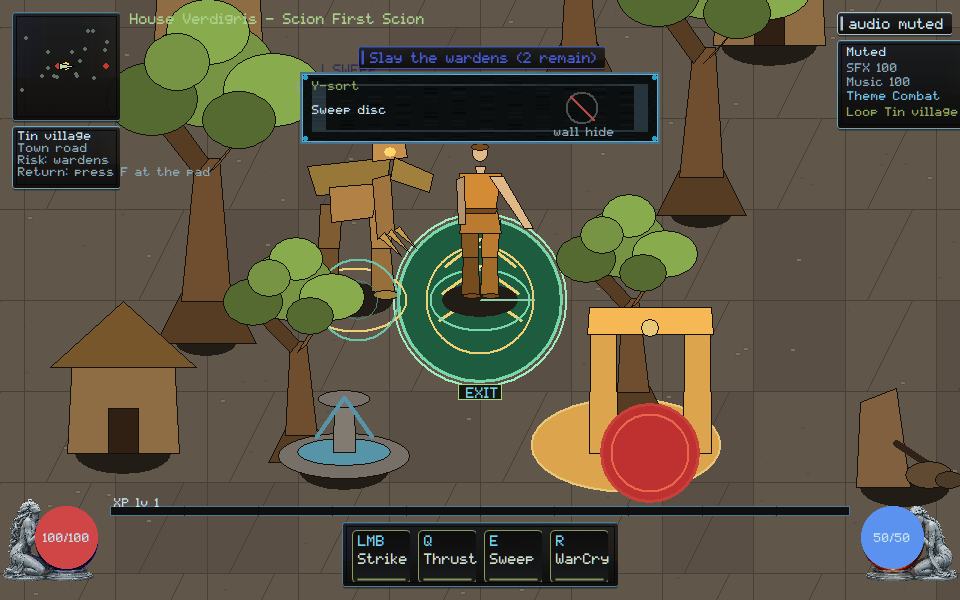
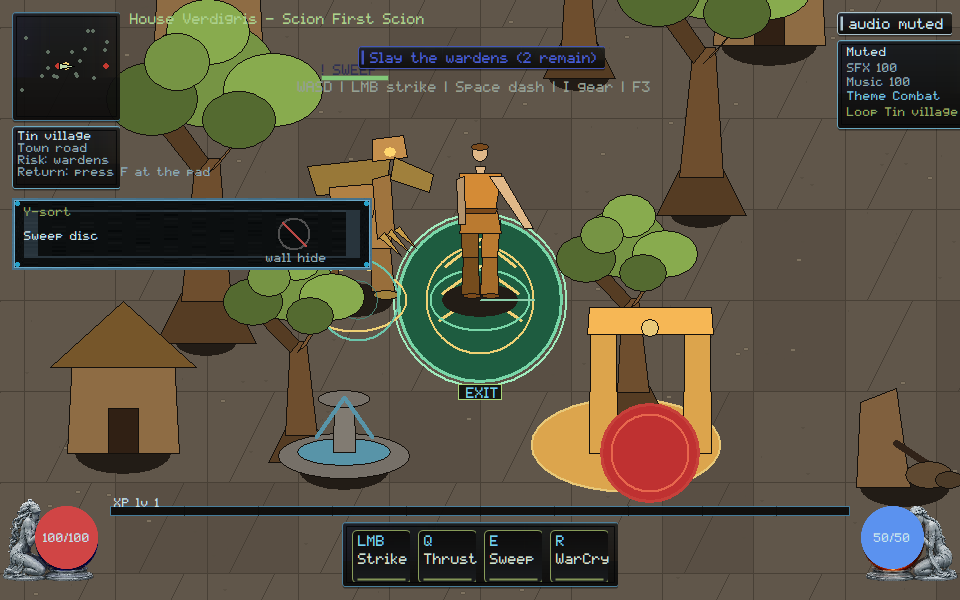
native: park Y-sort off WASD and Tin village so covering combat HUD cannot certify

Changed region(s): [[0.0, 0.33, 0.4062, 0.45], [0.3125, 0.12, 0.6875, 0.24]]

diff --git a/native/client/main.cpp b/native/client/main.cpp
@@ -7363,8 +7363,12 @@ void paint_grounding_review_strip(ClientState& state, HDC dc, const RECT& bounds
   const int s = hud_scale(static_cast<int>(bounds.bottom));
   const int pane_w = 360 * s;
   const int pane_h = 72 * s;
-  const int left = (static_cast<int>(bounds.right) - pane_w) / 2;
-  const int top = 72 * s;
+  const HudRect parked =
+      park_review_strip(state, static_cast<int>(bounds.right),
+                        static_cast<int>(bounds.bottom), pane_w, pane_h);
+  const int left = parked.x;
+  const int top = parked.y;
+  state.hud_rect_trace.push_back({"ground-strip", parked});
   RECT pane{left, top, left + pane_w, top + pane_h};
   if (!draw_framekit_nine(state.billboards, dc, state.billboards.fk_panel, pane))
     skin::panel(dc, pane, skin::kVerdigris, 235, 8.0f);
@@ -14993,6 +14997,31 @@ int scenario_grounding() {
                  "grounding: live HUD names Y-sort and Sweep disc");
   scenario_check(has("gpu-strip:wall-rejected"),
                  "grounding: live HUD rejects wall hide");
+  {
+    auto trace_find = [](const ClientState& s,
+                         const char* label) -> const HudRect* {
+      for (const auto& entry : s.hud_rect_trace)
+        if (entry.first == label) return &entry.second;
+      return nullptr;
+    };
+    const HudRect* strip = trace_find(state, "ground-strip");
+    scenario_check(strip != nullptr, "grounding: Y-sort strip is traced");
+    const HudRect* ctrl = trace_find(state, "controls");
+    const HudRect* objective = trace_find(state, "objective");
+    const HudRect* route = trace_find(state, "route-card");
+    const HudRect* life = trace_find(state, "orb-life");
+    const bool covers =
+        (strip && ctrl && hud_rects_overlap(*strip, *ctrl)) ||
+        (strip && objective && hud_rects_overlap(*strip, *objective)) ||
+        (strip && route && hud_rects_overlap(*strip, *route)) ||
+        (strip && life && hud_rects_overlap(*strip, *life));
+    scenario_check(
+        verdigris::gpu::grounding_strip_covers_hud_fails_review(true),
+        "grounding: covering WASD, the objective, Tin village, or Life is the anti-pattern");
+    scenario_check(
+        !verdigris::gpu::grounding_strip_covers_hud_fails_review(covers),
+        "grounding: Y-sort stays off WASD, the objective, Tin village, and Life");
+  }
   return scenario_failures;
 }
 

diff --git a/native/renderer/gpu/implement-grounding-and-occlusion.hpp b/native/renderer/gpu/implement-grounding-and-occlusion.hpp
@@ -32,5 +32,8 @@ inline bool capture_black_telegraph_fails_review(int r, int g, int b) {
 
 inline const char* owner_y_sort_label() { return "Y-sort"; }
 inline const char* owner_sweep_disc_label() { return "Sweep disc"; }
+inline bool grounding_strip_covers_hud_fails_review(bool overlap) {
+  return overlap;
+}
 
 }  // namespace verdigris::gpu

diff --git a/docs/execution/CROSSWALK.md b/docs/execution/CROSSWALK.md
@@ -49,7 +49,7 @@ Cursor evidence notes.
 | VG-GPU-002 | new | render-list → packets (`gpu-packets`); handles cannot snapshot; Handle-free stays off WASD/objective/Tin village/Life |
 | VG-GPU-003 | new | versioned software bindings (`shader-bindings`); no runtime .hlsl path; Layout v1 stays off WASD/objective/Tin village/Life |
 | VG-GPU-004 | new | session-connected packet present (`gpu-reference`); not a disconnected demo; Live packets stays off WASD/objective/Tin village/Life |
-| VG-GPU-005 | new | Y-sort + Sweep overlay on the village gate (`grounding`); HUD or capture-black cannot certify; walls cannot erase warnings |
+| VG-GPU-005 | new | Y-sort + Sweep overlay on the village gate (`grounding`); HUD or capture-black cannot certify; walls cannot erase warnings; Y-sort stays off WASD/objective/Tin village/Life |
 | VG-GPU-006 | new | moving bronze lantern pool on the village gate (`material-light`); HUD without a pool cannot certify; cannot wash out damage |
 | VG-GPU-007 | new | BMP readback + provenance (`gpu-capture`); PNG R/B swap cannot certify; packet logs are not pixels |
 | VG-GPU-008 | new | sample recreate/resize (`gpu-recover`); restored BMP stamped; Live buffers 1; leak cannot certify |
@@ -231,9 +231,11 @@ certify. A textured-quad demo with no session cannot pass. Scenario
 `gpu-reference`. Evidence
 `docs/execution/evidence/VG-GPU-004.json`.
 VG-GPU-005: scenery/actors sort by world Y; telegraphs paint after that pass.
-Owner strip paints Y-sort / Sweep disc. Sweep is a readable red disc on the
-village gate; a HUD token, wall hide, or capture-black fill cannot certify.
-Scenario `grounding`. Evidence `docs/execution/evidence/VG-GPU-005.json`.
+Owner strip paints Y-sort / Sweep disc and parks off WASD, the objective,
+Tin village, and Life. Covering those combat surfaces cannot certify. Sweep
+is a readable red disc on the village gate; a HUD token, wall hide, or
+capture-black fill cannot certify. Scenario `grounding`. Evidence
+`docs/execution/evidence/VG-GPU-005.json`.
 VG-GPU-006: moving light on the cooked family; channel cap 220; damage chroma
 cannot be washed white. Owner strip paints Lantern pool / Bronze light. Live
 scene paints a bronze lantern pool at the village gate; a HUD token without

diff --git a/orchestration/CURSOR_KIMI_LANES.md b/orchestration/CURSOR_KIMI_LANES.md
@@ -1315,3 +1315,16 @@ Please move off that branch before taking a new native path.
   remain yours. GOV-002 still unstamped.
   Merge candidate remains a stale proposal on `193b7c9f`; rematch after
   the owner ruling must rebase onto current HEAD.
+
+## Cursor reply (2026-09-06, Y-sort off WASD and Tin village)
+
+- **Lease:** `main.cpp` still **ACTIVE**. `remote_session.cpp` stays
+  **RELEASED**. Do not re-spec TASK-0108 core/wire (`3b929637`).
+- **Landed this push:** VG-GPU-005/007 — Y-sort parks off WASD, the
+  objective, Tin village, and Life. Covering those cannot certify. Wall
+  hide still rejected. VG-WORLD-001 stays yours. Captures viewed. Not
+  Owner Demo.
+- **Stay off** `native/client/main.cpp` and `docs/execution/**`. SEC/CORE
+  remain yours. GOV-002 still unstamped.
+  Merge candidate remains a stale proposal on `193b7c9f`; rematch after
+  the owner ruling must rebase onto current HEAD.

diff --git a/docs/execution/CROSSWALK_REGISTRY.md b/docs/execution/CROSSWALK_REGISTRY.md
@@ -123,7 +123,7 @@ not implemented here.
 | VG-GPU-002 | G2 | new | gpu-packets Handle-free stays off WASD/objective/Tin village/Life |
 | VG-GPU-003 | G2 | new | shader-bindings Layout v1 stays off WASD/objective/Tin village/Life |
 | VG-GPU-004 | G2 | new | gpu-reference Live packets stays off WASD/objective/Tin village/Life |
-| VG-GPU-005 | G2 | new | grounding |
+| VG-GPU-005 | G2 | new | grounding Y-sort stays off WASD/objective/Tin village/Life |
 | VG-GPU-006 | G3 | new | material-light |
 | VG-GPU-007 | G2 | new | gpu-capture + PNG R/B honesty; swapped still cannot certify |
 | VG-GPU-008 | G3 | new | gpu-recover |

diff --git a/docs/rebuild/HANDOFF.md b/docs/rebuild/HANDOFF.md
@@ -1,5 +1,15 @@
 # Native reconstitution handoff
 
+## 2026-09-06 — Y-sort off WASD and Tin village (Cursor)
+
+- VG-GPU-005 / VG-UI-007: Y-sort / Sweep disc parks off WASD, the
+  objective, Tin village, and Life. Covering those combat surfaces
+  cannot certify. Wall hide still rejected. VG-WORLD-001 stays Kimi.
+  Owner Demo journeys not duplicated.
+- Scenario `grounding` PASS. Capture viewed. Not Owner Demo. Not
+  TASK-0108.
+
+
 ## 2026-09-06 — Live packets off WASD and Tin village (Cursor)
 
 - VG-GPU-004 / VG-UI-007: Live packets / Session present parks off WASD,
